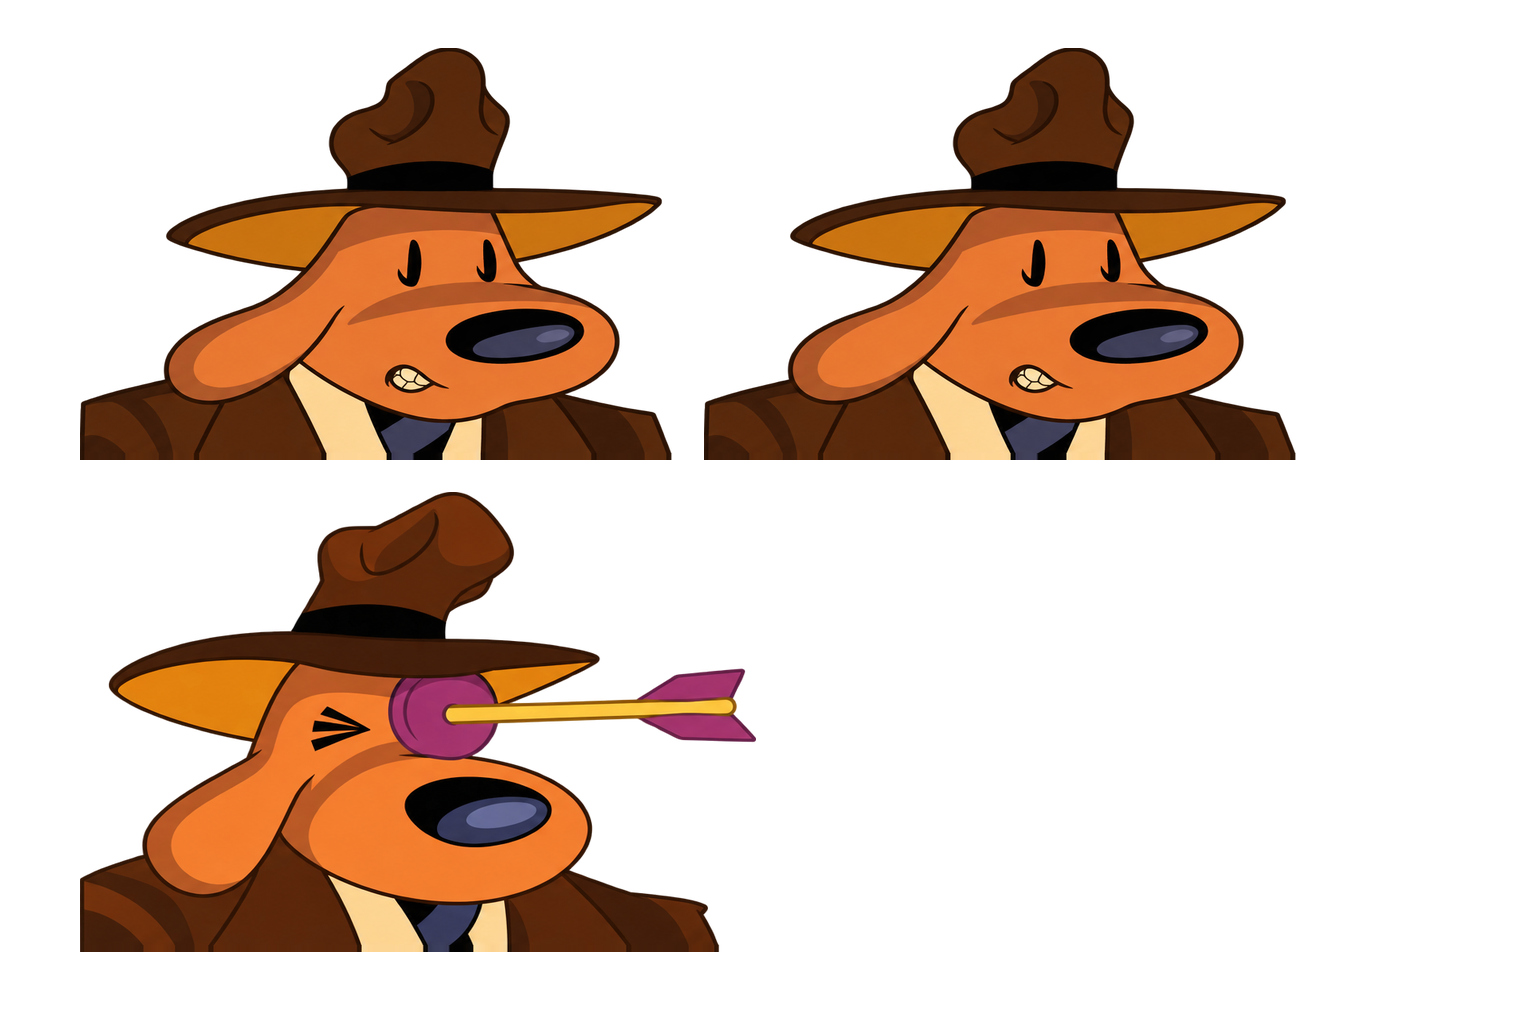
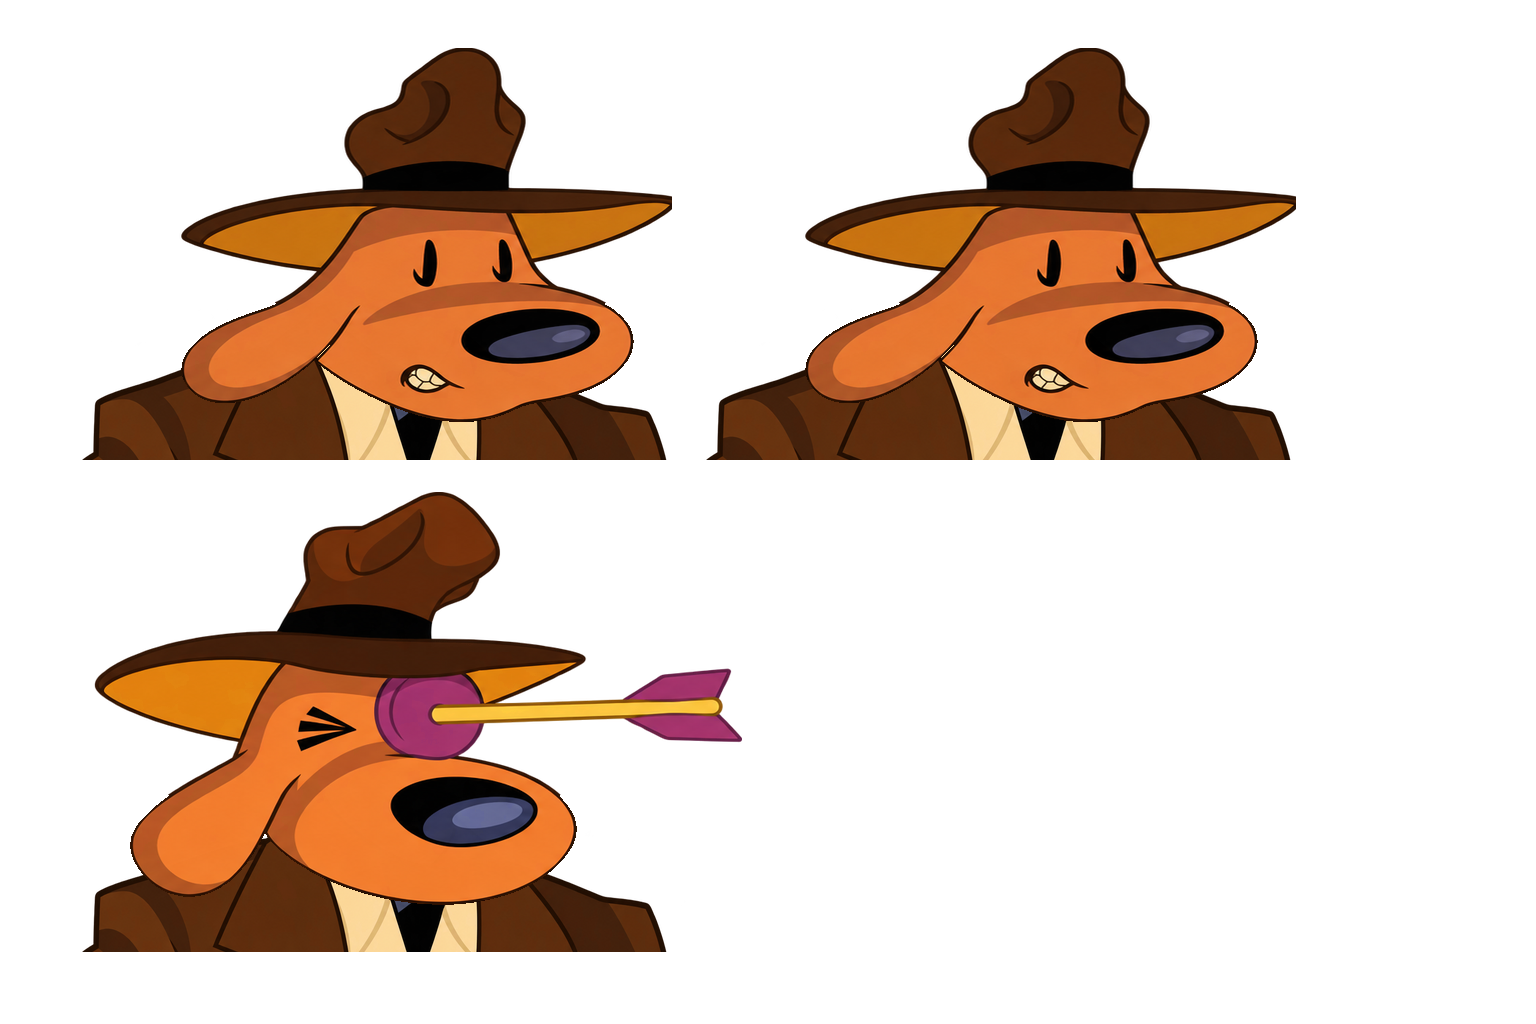
GPT: overtegningsretur fig346_15 til 20

Changed region(s): [[0.0312, 0.0312, 0.8438, 0.9375]]

diff --git a/jobber/fig346_18/notat.md b/jobber/fig346_18/notat.md
@@ -9,3 +9,5 @@ Resultat1536x1024RGBA, SHA256 8278c9449f426b2802a953a02434fd8e78534ca6f0b5edd624
 Automatisk native mottak17 OK med uendrede terskler. Sluttmottaket gjenbruker17 tidligere native byteidentisk ved eksakt samme hele kilde-RGBA; før-/ettermetadata er bevart i native-eksakt-gjenbruk.json. Ingen originalutliggerpiksler eller hel originalfallback.
 
 Alle17 er sett som original/native/motor og observert ved kildeposisjonen i ett tvunget animasjon7-forløp. Samme nedlastede e541253b-binær og innstillinger som grunnlag ca6258e7 med2199 native.80 skjermbufferkontroller, alle null,71 fra figurstart. Faktisk publisering og tilbakehenting i mottak-publisert.json. Ingen ny Tom-/Claude-godkjenning, naturlig gjennomspilling eller interaktiv Windows-/webtest.
+
+2026-10-20: Overtegningsretur. 1 hele kilde-RGBA-identiske aliaser har fått samme egne sammenhengende klesmaleri og native som de kanoniske hodelagene. M01 fra sam346-klesskjot-retur-20261020 er eneste nye maleri, ingen nye bildekall i denne returen. Uendrede ruter på arket er bytekontrollert. Førbilder er bevart i sam346-overtegning-20261020/foer. Resultat SHA256 4ba651fa87b2a2eccf412578a265e76cdd235e1e0579e40b9c965ee657030ece. Se fremdrift.json for mottak, motor og publisering.

diff --git a/jobber/fig346_19/notat.md b/jobber/fig346_19/notat.md
@@ -9,3 +9,5 @@ Resultat1536x1024RGBA, SHA256 eae5663a4a9aa5887c33cad2eddf5f8b2352edc37688984c01
 Automatisk native mottak17 OK med uendrede terskler. Sluttmottaket gjenbruker17 tidligere native byteidentisk ved eksakt samme hele kilde-RGBA; før-/ettermetadata er bevart i native-eksakt-gjenbruk.json. Ingen originalutliggerpiksler eller hel originalfallback.
 
 Alle17 er sett som original/native/motor og observert ved kildeposisjonen i ett tvunget animasjon7-forløp. Samme nedlastede e541253b-binær og innstillinger som grunnlag ca6258e7 med2199 native.80 skjermbufferkontroller, alle null,71 fra figurstart. Faktisk publisering og tilbakehenting i mottak-publisert.json. Ingen ny Tom-/Claude-godkjenning, naturlig gjennomspilling eller interaktiv Windows-/webtest.
+
+2026-10-20: Overtegningsretur. 1 hele kilde-RGBA-identiske aliaser har fått samme egne sammenhengende klesmaleri og native som de kanoniske hodelagene. M01 fra sam346-klesskjot-retur-20261020 er eneste nye maleri, ingen nye bildekall i denne returen. Uendrede ruter på arket er bytekontrollert. Førbilder er bevart i sam346-overtegning-20261020/foer. Resultat SHA256 babfa557275db0c09558b86e03d776784103f64d15a582103683d48532d550fb. Se fremdrift.json for mottak, motor og publisering.

diff --git a/jobber/fig346_20/notat.md b/jobber/fig346_20/notat.md
@@ -9,3 +9,5 @@ Resultat1536x1024RGBA, SHA256 bb19ceb4a0b0f52bc30d32087a480960d0797719543371774d
 Automatisk native mottak17 OK med uendrede terskler. Sluttmottaket gjenbruker17 tidligere native byteidentisk ved eksakt samme hele kilde-RGBA; før-/ettermetadata er bevart i native-eksakt-gjenbruk.json. Ingen originalutliggerpiksler eller hel originalfallback.
 
 Alle17 er sett som original/native/motor og observert ved kildeposisjonen i ett tvunget animasjon7-forløp. Samme nedlastede e541253b-binær og innstillinger som grunnlag ca6258e7 med2199 native.80 skjermbufferkontroller, alle null,71 fra figurstart. Faktisk publisering og tilbakehenting i mottak-publisert.json. Ingen ny Tom-/Claude-godkjenning, naturlig gjennomspilling eller interaktiv Windows-/webtest.
+
+2026-10-20: Overtegningsretur. 3 hele kilde-RGBA-identiske aliaser har fått samme egne sammenhengende klesmaleri og native som de kanoniske hodelagene. M01 fra sam346-klesskjot-retur-20261020 er eneste nye maleri, ingen nye bildekall i denne returen. Uendrede ruter på arket er bytekontrollert. Førbilder er bevart i sam346-overtegning-20261020/foer. Resultat SHA256 2625f3bf9989b3f2c0532527fc6801b03d6000a718df9318f93fa42ce8d75b18. Se fremdrift.json for mottak, motor og publisering.

diff --git a/jobber/fig346_15/notat.md b/jobber/fig346_15/notat.md
@@ -15,3 +15,5 @@ Automatisk native mottak gir alle 22 OK med uendrede terskler. Sluttmottaket har
 Alle 22 er visuelt sett mot original/native/motor og observert ved kildeposisjonen i to tvungne animasjoner i nedlastet Linux-motor e541253b. 160 skjermbufferkontroller, alle null, 142 fra figurstart. De forkastede prøveforløpene er bevart og teller ikke som sluttprøver.
 
 Publisering og faktisk tilbakehenting føres i mottak-publisert.json. Ingen ny Tom-godkjenning, separat Claude-kontroll, naturlig gjennomspilling eller interaktiv Windows-/webtest. Resten av serien og Max-nærbildene gjenstår.
+
+2026-10-20: Overtegningsretur. 3 hele kilde-RGBA-identiske aliaser har fått samme egne sammenhengende klesmaleri og native som de kanoniske hodelagene. M01 fra sam346-klesskjot-retur-20261020 er eneste nye maleri, ingen nye bildekall i denne returen. Uendrede ruter på arket er bytekontrollert. Førbilder er bevart i sam346-overtegning-20261020/foer. Resultat SHA256 f08147a9b53cf3aaa1997323403de0987d849b030c09c06414fd0421681a8dc5. Se fremdrift.json for mottak, motor og publisering.

diff --git a/jobber/fig346_16/notat.md b/jobber/fig346_16/notat.md
@@ -15,3 +15,5 @@ Automatisk native mottak gir alle 22 OK med uendrede terskler. Sluttmottaket har
 Alle 22 er visuelt sett mot original/native/motor og observert ved kildeposisjonen i to tvungne animasjoner i nedlastet Linux-motor e541253b. 160 skjermbufferkontroller, alle null, 142 fra figurstart. De forkastede prøveforløpene er bevart og teller ikke som sluttprøver.
 
 Publisering og faktisk tilbakehenting føres i mottak-publisert.json. Ingen ny Tom-godkjenning, separat Claude-kontroll, naturlig gjennomspilling eller interaktiv Windows-/webtest. Resten av serien og Max-nærbildene gjenstår.
+
+2026-10-20: Overtegningsretur. 2 hele kilde-RGBA-identiske aliaser har fått samme egne sammenhengende klesmaleri og native som de kanoniske hodelagene. M01 fra sam346-klesskjot-retur-20261020 er eneste nye maleri, ingen nye bildekall i denne returen. Uendrede ruter på arket er bytekontrollert. Førbilder er bevart i sam346-overtegning-20261020/foer. Resultat SHA256 64ad9d4d7ae7b37521fd165d27fc6edfaab64f7b179af6dd501e833ffc780cbb. Se fremdrift.json for mottak, motor og publisering.

diff --git a/jobber/fig346_17/notat.md b/jobber/fig346_17/notat.md
@@ -15,3 +15,5 @@ Automatisk native mottak gir alle 22 OK med uendrede terskler. Sluttmottaket har
 Alle 22 er visuelt sett mot original/native/motor og observert ved kildeposisjonen i to tvungne animasjoner i nedlastet Linux-motor e541253b. 160 skjermbufferkontroller, alle null, 142 fra figurstart. De forkastede prøveforløpene er bevart og teller ikke som sluttprøver.
 
 Publisering og faktisk tilbakehenting føres i mottak-publisert.json. Ingen ny Tom-godkjenning, separat Claude-kontroll, naturlig gjennomspilling eller interaktiv Windows-/webtest. Resten av serien og Max-nærbildene gjenstår.
+
+2026-10-20: Overtegningsretur. 1 hele kilde-RGBA-identiske aliaser har fått samme egne sammenhengende klesmaleri og native som de kanoniske hodelagene. M01 fra sam346-klesskjot-retur-20261020 er eneste nye maleri, ingen nye bildekall i denne returen. Uendrede ruter på arket er bytekontrollert. Førbilder er bevart i sam346-overtegning-20261020/foer. Resultat SHA256 e8f75eb5be35488d9b7edbfbb747f52f6d47c882d7f147d9a202c4c7ef39d7ac. Se fremdrift.json for mottak, motor og publisering.
